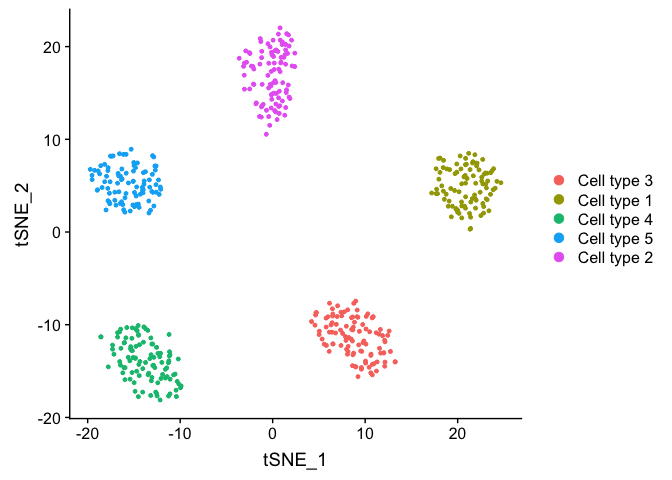
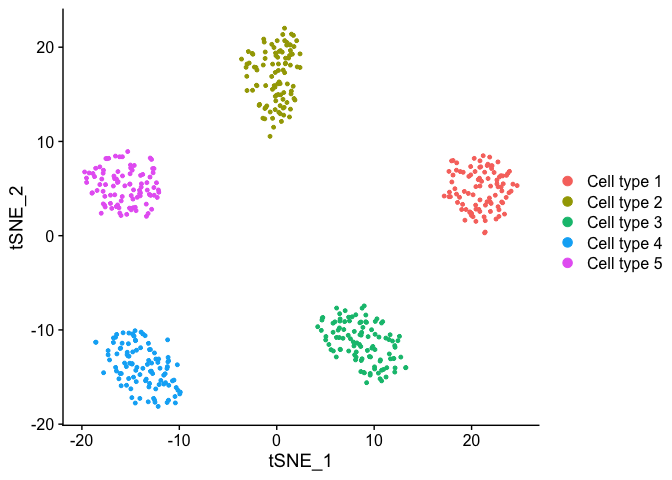
streamline readme

diff --git a/README.md b/README.md
@@ -5,14 +5,14 @@ README
 
 This package provides a bootstrap imputation method for dropout events in scRNAseq data.
 
-News
+NEWS
 ----
 
-> Aug. 14, 2019  
+> Aug. 14, 2019
 
-- Version 0.1.1 released!  
-- Compatible with Seurat v3.  
-- Informative genes may be determined using any pipeline (e.g. scran) or method and indicated with `select_genes`.  
+-   Version 0.1.1 released!
+-   Compatible with Seurat v3.
+-   Informative genes may be determined using any pipeline (e.g. scran) or method and indicated with `select_genes`.
 
 Installation
 ------------
@@ -77,7 +77,7 @@ params <- splatter::newSplatParams(
 splat <- splatter::splatSimulate(params = params, method = 'groups')
 
 cell_types <- SummarizedExperiment::colData(splat)$Group
-cell_types <- gsub('Group', 'Cell type ', cell_types)
+cell_types <- as.factor(gsub('Group', 'Cell type ', cell_types))
 ```
 
 To visualize this data we'll use the Seurat pipeline, which imports with the rescue package.
@@ -133,7 +133,6 @@ It's clear that dropout has distorted our evaluation of the data by cell type as
 impute <- rescue::bootstrapImputation(expression_matrix = expression_dropout@assays$RNA@data, bootstrap_samples = 100, use_mclapply = TRUE, cores = 3)
 
 expression_imputed <- Seurat::CreateSeuratObject(counts = impute$final_imputation)
-#expression_imputed <- Seurat::NormalizeData(expression_imputed, normalization.method = 'none')
 expression_imputed <- Seurat::ScaleData(expression_imputed)
 expression_imputed <- Seurat::RunPCA(expression_imputed, features = rownames(expression_imputed), verbose = FALSE)
 expression_imputed <- Seurat::SetIdent(expression_imputed, value = cell_types)
